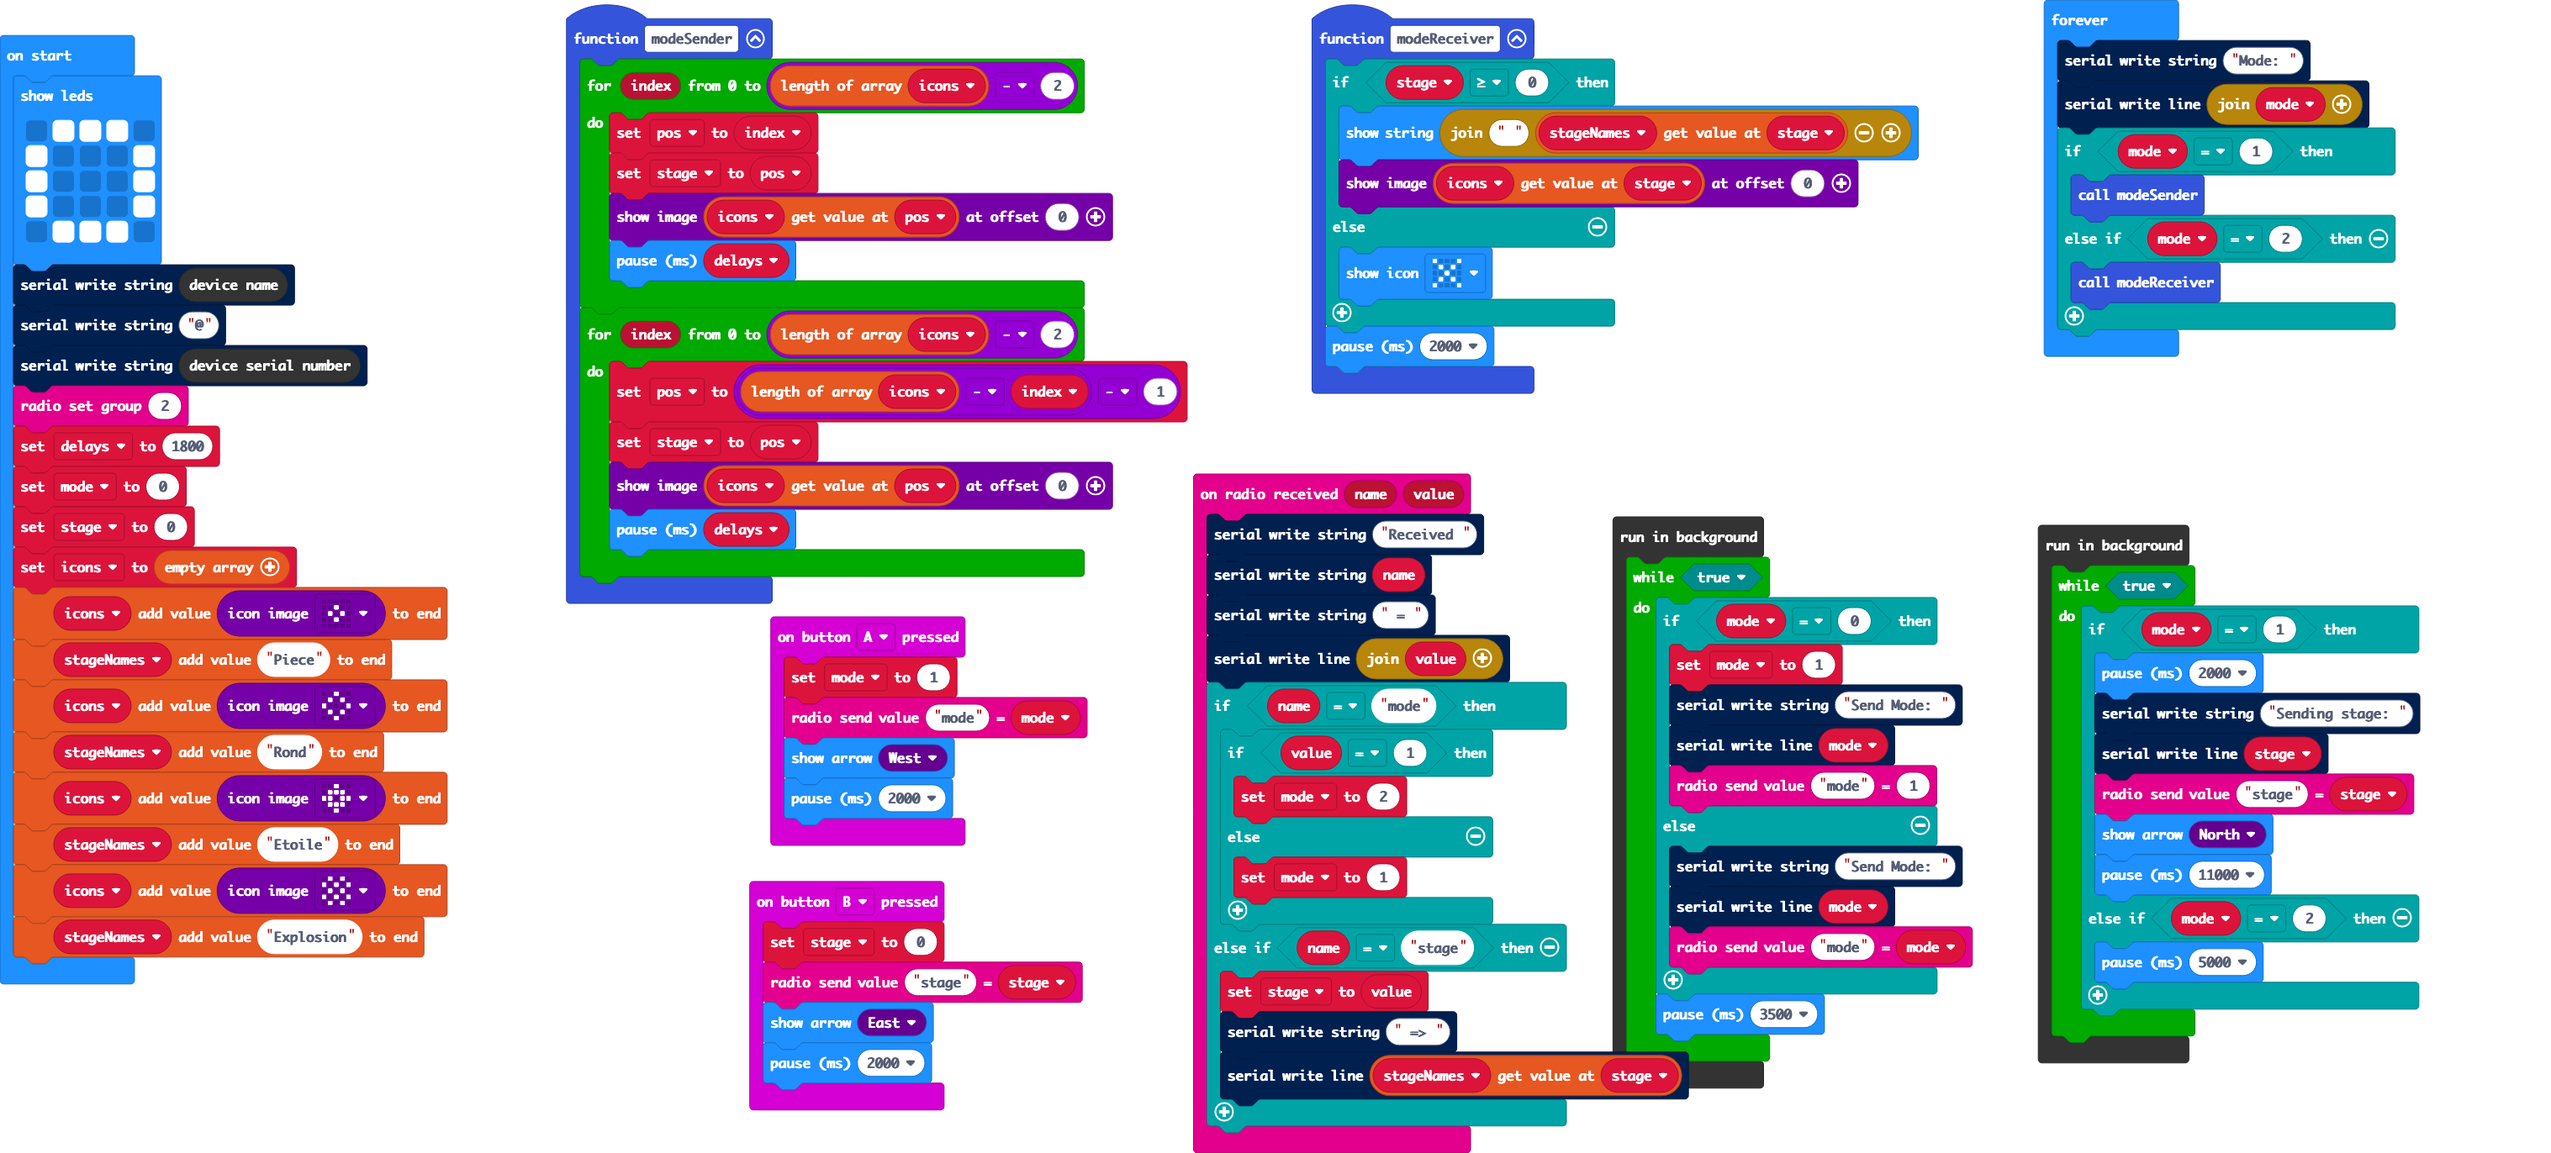
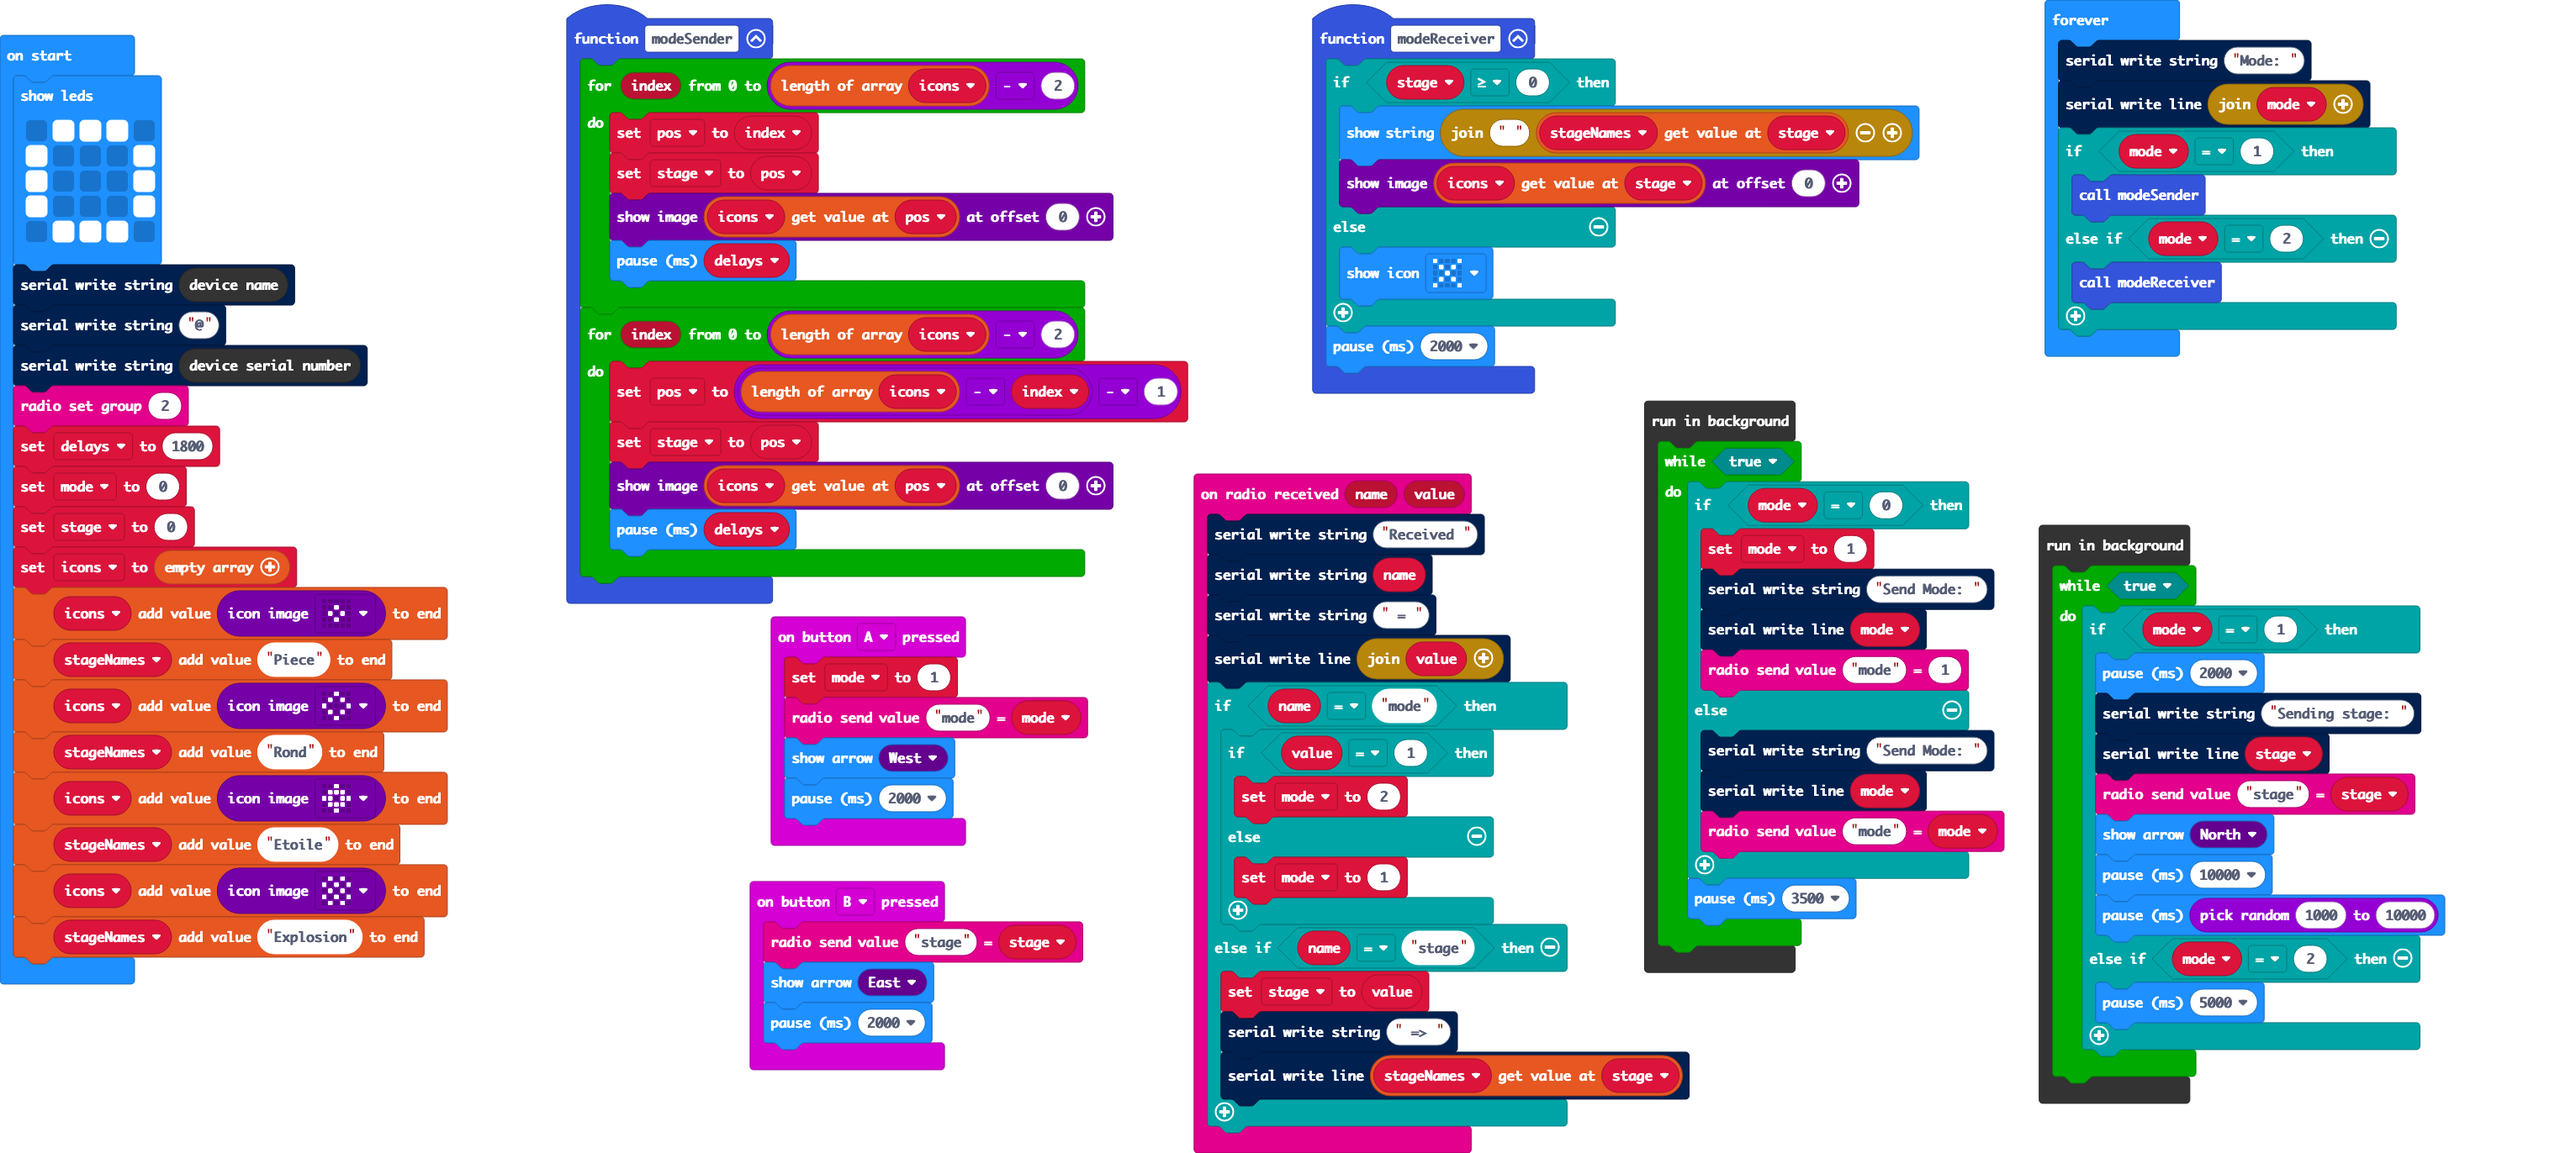
délai aléatoire pour l'envoi du stage, bouton B ne reset plus le stage à 0

diff --git a/main.ts b/main.ts
@@ -28,7 +28,6 @@ input.onButtonPressed(Button.A, function () {
     basic.pause(2000)
 })
 input.onButtonPressed(Button.B, function () {
-    stage = 0
     radio.sendValue("stage", stage)
     basic.showArrow(ArrowNames.East)
     basic.pause(2000)
@@ -111,7 +110,8 @@ control.inBackground(function () {
             serial.writeLine("" + (stage))
             radio.sendValue("stage", stage)
             basic.showArrow(ArrowNames.North)
-            basic.pause(11000)
+            basic.pause(10000)
+            basic.pause(randint(1000, 10000))
         } else if (mode == 2) {
             basic.pause(5000)
         }
